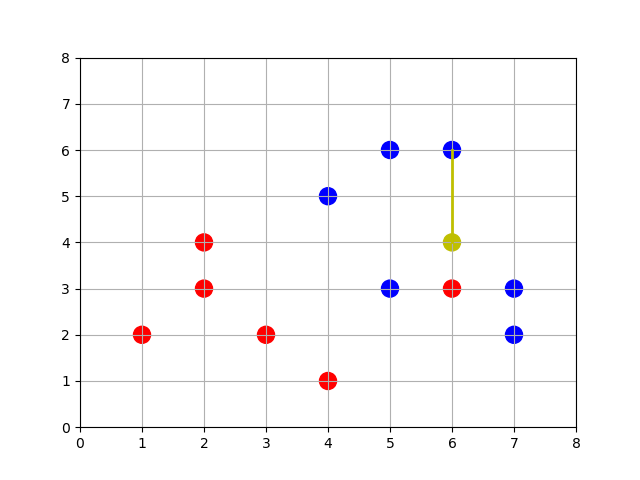
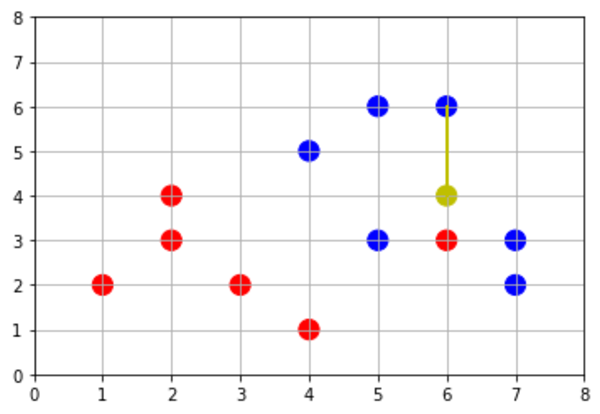
KNN case update
KNN case update

diff --git a/src/app/knn/knn.component.html b/src/app/knn/knn.component.html
@@ -29,10 +29,18 @@
         </div>
 
         <h2>3. 흐름도 및 시각화</h2>
+            <div class="description"><img src="assets/result-img/knn/KNN_1.png"/></div>
+            <div class="description">분류할 데이터와 K값을 설정하세요.</div>
+            <div class="description">1. (3, 6) & K = 1</div>
+            <div class="description">2. (3, 6) & K = 3</div>
+            <div class="description">3. (6, 4) & K = 1</div>
+            <div class="description">4. (6, 4) & K = 3</div>
+            
+            
         <div class="flowchart" fxLayout="row" fxLayoutAlign="center center" fxLayoutGap="8px">
-            <span (click)="OpenDetailDialog(1)">데이터셋(X, Y), K값(K) 입력</span>
-            <mat-icon>keyboard_arrow_right</mat-icon>
-            <span (click)="OpenDetailDialog(2)">분류할 데이터(X, Y) 입력</span>
+            <!-- <span (click)="OpenDetailDialog(1)">데이터셋(X, Y), K값(K) 입력</span>
+            <mat-icon>keyboard_arrow_right</mat-icon> -->
+            <span (click)="OpenDetailDialog(2)">분류할 데이터(X, Y), K값 설정 </span>
             <mat-icon>keyboard_arrow_right</mat-icon>
             <span (click)="OpenDetailDialog(3)">모든 데이터셋과 거리 계산</span>
             <mat-icon>keyboard_arrow_right</mat-icon>

diff --git a/src/app/knn/knn.component.ts b/src/app/knn/knn.component.ts
@@ -386,14 +386,14 @@ export class KnnComponent implements OnInit {
       case 4: {
         data = {
           step: 'Step4. 거리가 짧은 순서로 K개 만큼 선택\nK = 3',
-          image: ['/assets/result-img/knn/KNN_4-1.png', '/assets/result-img/knn/KNN_4-2.png']
+          image: ['/assets/result-img/knn/KNN_4-1.png', '/assets/result-img/knn/KNN_4-1.png', '/assets/result-img/knn/KNN_4-1.png', '/assets/result-img/knn/KNN_4-2.png']
         }
         break;
       }
       case 5: {
         data = {
           step: 'Step5. 선택된 값 중 다수 값으로 분류',
-          image: ['/assets/result-img/knn/KNN_5-1.png', '/assets/result-img/knn/KNN_5-2.png']
+          image: ['/assets/result-img/knn/KNN_5-1.png', '/assets/result-img/knn/KNN_5-1.png', '/assets/result-img/knn/KNN_5-1.png', '/assets/result-img/knn/KNN_5-2.png']
         }
         break;
       }

diff --git a/src/app/main/main.component.html b/src/app/main/main.component.html
@@ -34,6 +34,7 @@
                     <h3>CNN</h3>
                 </a>
             </div>
+            
         </section>
     </section>
 
